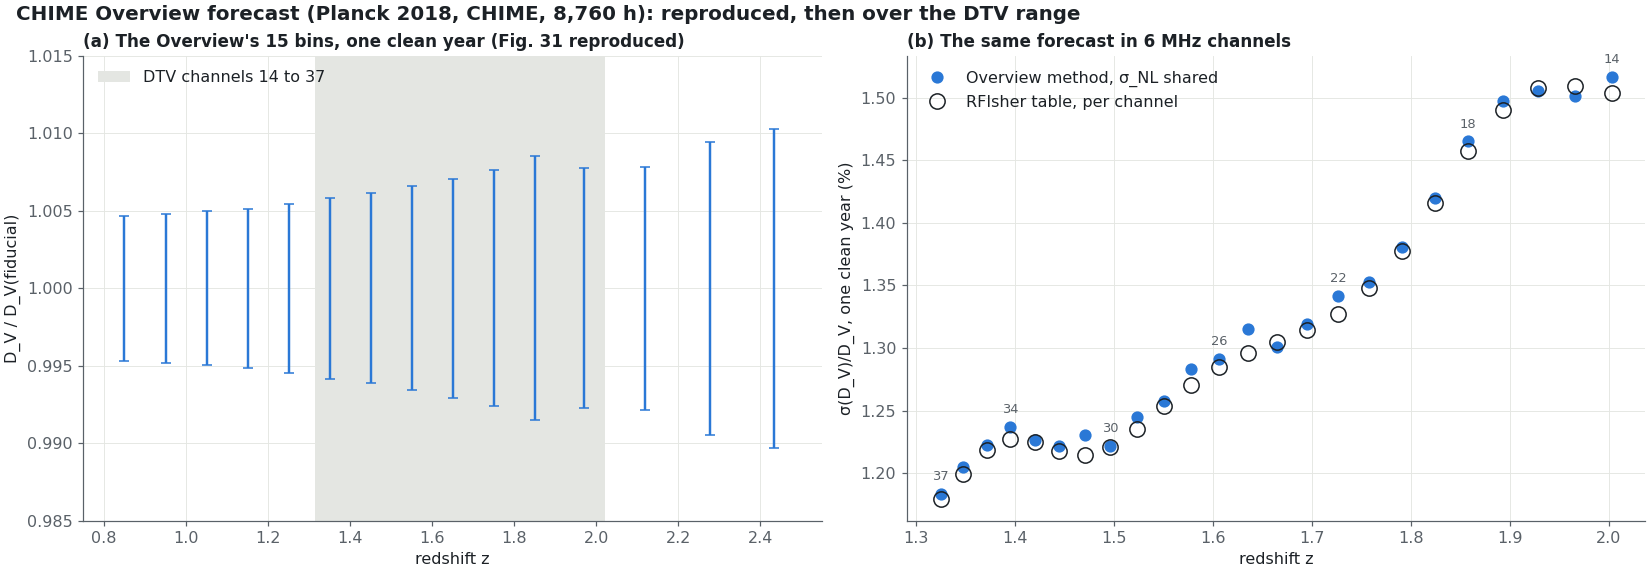
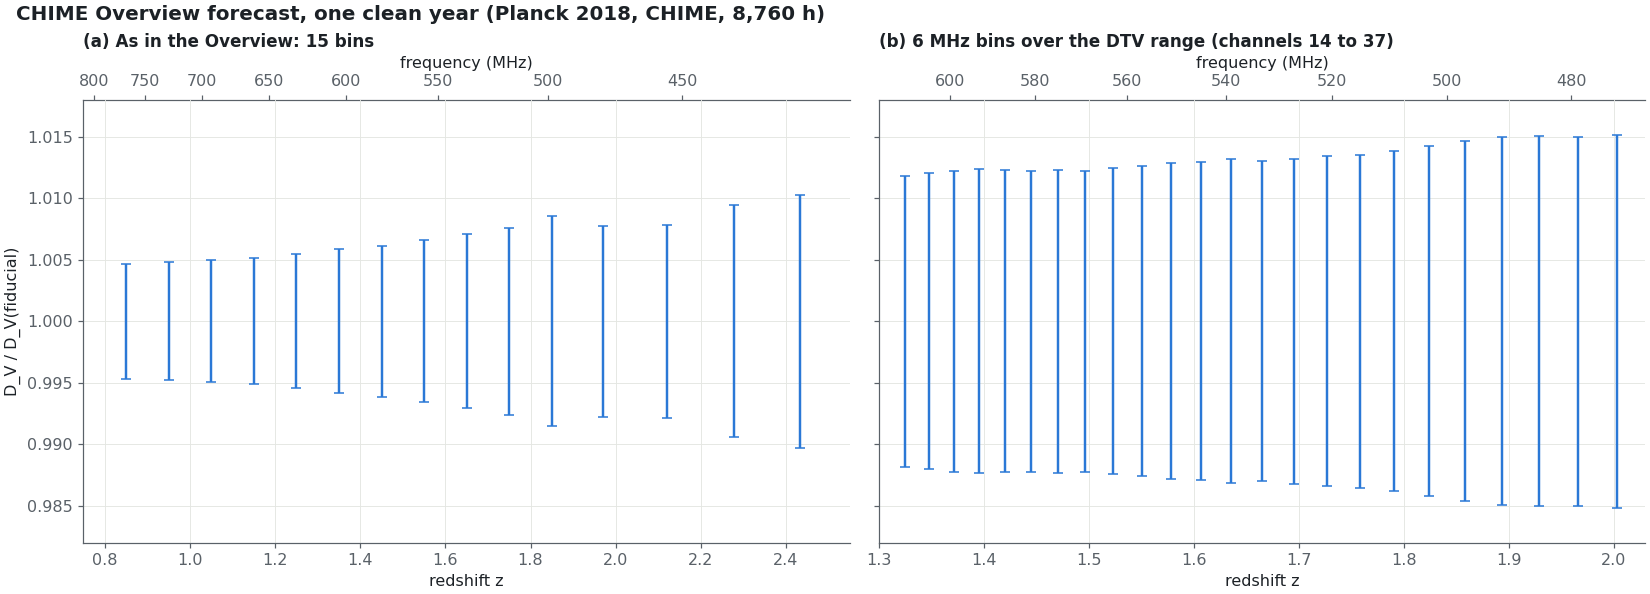
Show the reference as the published forecast beside its 6 MHz version

diff --git a/src/rfisher/figures.py b/src/rfisher/figures.py
@@ -18,6 +18,7 @@ from .bands import Band
 
 INK, MUTED, GRID, SURF = "#1c2126", "#5a6168", "#e4e6e2", "#ffffff"
 LINE = "#2a78d6"
+NU21 = 1420.406
 STYLE = {"font.size": 10.5, "axes.edgecolor": MUTED, "xtick.color": MUTED, "ytick.color": MUTED,
          "axes.labelcolor": INK, "figure.facecolor": SURF, "axes.facecolor": SURF, "text.color": INK,
          "axes.titlesize": 11, "axes.titleweight": "bold", "axes.titlelocation": "left"}
@@ -140,38 +141,25 @@ def draw_all(table, out, channels=None) -> list[Path]:
     return paths
 
 
-def overview_figure(ref: dict, table: dict, out) -> Path:
-    """The CHIME Overview forecast reproduced on its 15 bins, and over the DTV range in 6 MHz channels."""
+def overview_figure(ref: dict, out) -> Path:
+    """The CHIME Overview forecast as published (15 bins) and with 6 MHz bins over the DTV range."""
     out = Path(out)
     out.mkdir(parents=True, exist_ok=True)
-    ob, ch = ref["overview_bins"], ref["channels"]
-    lo = min(b["z_min"] for b in ch["bins"])
-    hi = max(b["z_max"] for b in ch["bins"])
+    panels = (("(a) As in the Overview: 15 bins", ref["overview_bins"], (0.75, 2.55)),
+              ("(b) 6 MHz bins over the DTV range (channels 14 to 37)", ref["channels"], (1.30, 2.03)))
     with plt.rc_context(STYLE):
-        fig, axes = plt.subplots(1, 2, figsize=(15, 5.2), constrained_layout=True)
-        ax = axes[0]
-        zc = [b["z_center"] for b in ob["bins"]]
-        ax.axvspan(lo, hi, color=GRID, lw=0, label="DTV channels 14 to 37")
-        ax.errorbar(zc, np.ones(len(zc)), yerr=ob["sigma_dv"], fmt="none", capsize=3, color=LINE, lw=1.6)
-        ax.set(xlim=(0.75, 2.55), ylim=(0.985, 1.015), xlabel="redshift z", ylabel="D_V / D_V(fiducial)",
-               title="(a) The Overview's 15 bins, one clean year (Fig. 31 reproduced)")
-        ax.legend(frameon=False, loc="upper left")
-        ax = axes[1]
-        zc = [b["z_center"] for b in ch["bins"]]
-        rows = {r["channel"]: r for r in table["channels"]}
-        ax.plot(zc, [100 * s for s in ch["sigma_dv"]], "o", color=LINE, ms=7, label="Overview method, σ_NL shared")
-        ax.plot(zc, [100 * rows[b["channel"]]["sigma_dv"] for b in ch["bins"]], "o", mfc="none", color=INK, ms=10,
-                label="RFIsher table, per channel")
-        for b, s in zip(ch["bins"], ch["sigma_dv"]):
-            if b["channel"] % 4 == 2 or b["channel"] == 37:
-                ax.annotate(str(b["channel"]), (b["z_center"], 100 * s), xytext=(0, 9), textcoords="offset points",
-                            ha="center", fontsize=8.5, color=MUTED)
-        ax.set(xlabel="redshift z", ylabel="σ(D_V)/D_V, one clean year (%)",
-               title="(b) The same forecast in 6 MHz channels")
-        ax.legend(frameon=False, loc="upper left")
-        for ax in axes:
+        fig, axes = plt.subplots(1, 2, figsize=(15, 5.4), sharey=True, constrained_layout=True)
+        for ax, (title, fc, xlim) in zip(axes, panels):
+            zc = [b["z_center"] for b in fc["bins"]]
+            ax.errorbar(zc, np.ones(len(zc)), yerr=fc["sigma_dv"], fmt="none", capsize=3, color=LINE, lw=1.6)
+            ax.set(xlim=xlim, ylim=(0.982, 1.018), xlabel="redshift z", title=title)
+            top = ax.secondary_xaxis("top", functions=(lambda z: NU21 / np.maximum(1 + np.asarray(z, float), 1e-9),
+                                                       lambda nu: NU21 / np.maximum(np.asarray(nu, float), 1e-9) - 1))
+            top.set_xlabel("frequency (MHz)")
+            top.tick_params(colors=MUTED)
             _tidy(ax)
-        fig.suptitle("CHIME Overview forecast (Planck 2018, CHIME, 8,760 h): reproduced, then over the DTV range",
+        axes[0].set_ylabel("D_V / D_V(fiducial)")
+        fig.suptitle("CHIME Overview forecast, one clean year (Planck 2018, CHIME, 8,760 h)",
                      x=0.01, ha="left", fontsize=13, fontweight="bold")
         path = out / "overview_reference.png"
         fig.savefig(path, dpi=110)

diff --git a/src/rfisher/cli.py b/src/rfisher/cli.py
@@ -35,12 +35,11 @@ def main(argv=None):
 
         from .figures import overview_figure
         from .overview import reference
-        from .table import read_table
         ref = reference(args.workers)
         args.out.mkdir(parents=True, exist_ok=True)
         (args.out / "overview_reference.json").write_text(json.dumps(ref, indent=1) + "\n")
         print(args.out / "overview_reference.json")
-        print(overview_figure(ref, read_table(), args.out))
+        print(overview_figure(ref, args.out))
     else:
         from .figures import draw_all
         from .table import read_table

diff --git a/README.md b/README.md
@@ -46,11 +46,12 @@ bias_over_sigma = a * abs(row["response_dv"])
 RadioFisher's own `fisher()` per redshift bin, A, bσ8, fσ8 and the two dilations free in
 each bin, σ_NL shared by all bins, and the dilations combined into D_V. On the Overview's
 15 bins it reproduces the clean one-year errors, 0.47% to 1.03%, to within 0.0003
-percentage points. Run on the 6 MHz channels it gives the clean reference for the DTV
-range, 1.18% to 1.52% per channel. The table's clean σ(D_V) agrees with it to within
-1.5% on every channel; the table integrates more finely and fits σ_NL per channel.
+percentage points. The same forecast with 6 MHz bins over the DTV range gives 1.18% to
+1.52% per channel: each bin is about a quarter as deep, so its error is about twice as
+large. The tolerance table's clean σ(D_V) agrees with it to within 1.5% on every
+channel; the table integrates more finely and fits σ_NL per channel.
 
-![The CHIME Overview forecast reproduced, and in 6 MHz channels](docs/figures/overview_reference.png)
+![The CHIME Overview forecast as published, and with 6 MHz bins over the DTV range](docs/figures/overview_reference.png)
 
 ## How the detector side uses the table
 
